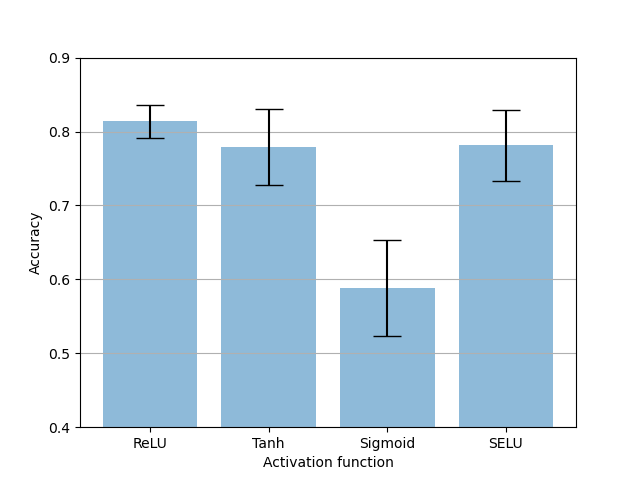
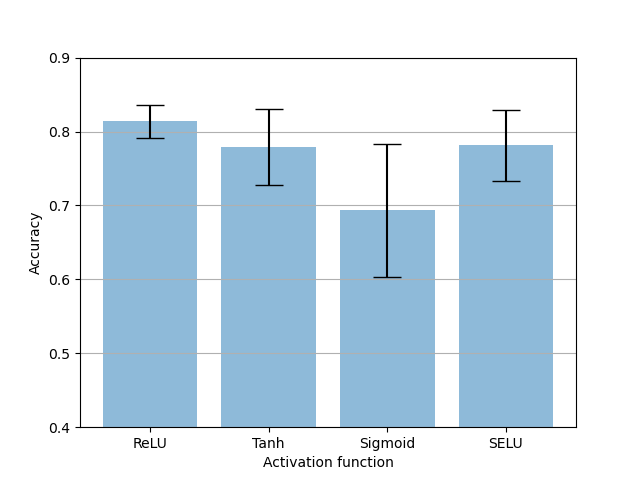
modification

Changed region(s): [[0.5312, 0.4375, 0.6875, 0.625], [0.5938, 0.6875, 0.625, 0.7188], [0.5938, 0.2812, 0.625, 0.3125]]

diff --git a/project2/plot.py b/project2/plot.py
@@ -1,12 +1,49 @@
 import matplotlib.pyplot as plt
 import numpy as np
+import json
 
-losses = [0.2523237198591232, 0.2517003074288368, 0.25118258148431777, 0.25075354278087614, 0.25038427114486694, 0.25005258470773695, 0.2497444838285446, 0.24945162385702133, 0.24916651099920273, 0.24888347685337067, 0.24859793186187745, 0.2483057975769043, 0.24801134467124938, 0.24771273136138916, 0.2473994627594948, 0.24706522822380067, 0.24670525938272475, 0.24631590843200685, 0.24589510411024093, 0.2454386368393898, 0.24493677765130997, 0.24438005834817886, 0.24374423623085023, 0.24305064380168914, 0.2422913581132889, 0.2414514809846878, 0.24051590859889985, 0.23947113305330275, 0.2383066773414612, 0.23701805919408797, 0.23558934777975082, 0.2340041145682335, 0.23226663172245027, 0.2303305447101593, 0.22815399765968322, 0.22574519664049147, 0.22310350090265274, 0.22020205706357956, 0.21701882928609847, 0.21352009773254393, 0.20969559252262115, 0.2055331289768219, 0.2010292187333107, 0.19617253839969634, 0.19094836860895156, 0.1853657752275467, 0.17942852079868316, 0.1731581673026085, 0.16654035151004792, 0.15956300795078276, 0.15232792347669602, 0.14502171128988267, 0.1376812383532524, 0.1304257556796074, 0.12327003106474876, 0.11636588796973228, 0.1097885474562645, 0.10357549265027047, 0.09781694263219834, 0.09249856695532799, 0.08762018382549286, 0.08316690996289253, 0.07910251840949059, 0.07539054527878761, 0.07197819836437702, 0.06886245496571064, 0.06600296832621097, 0.06337681487202644, 0.0609555259346962, 0.05872438549995422, 0.05665809251368046, 0.054729167744517325, 0.05294664725661278, 0.051289217174053194, 0.04973609410226345, 0.04828712828457356, 0.04691844098269939, 0.045628726668655875, 0.044421376287937166, 0.04327977001667023, 0.04220593087375164, 0.041189190745353696, 0.04021612610667944, 0.0392931018024683, 0.038418622501194474, 0.03759128954261541, 0.036803100258111954, 0.03605416491627693, 0.035346824675798416, 0.03467855416238308, 0.03404069673269987, 0.03342877011746168, 0.032844404131174086, 0.03228354640305042, 0.03173722494393587, 0.031216256506741046, 0.030719197168946267, 0.030241300724446772, 0.029781049489974974, 0.02933681197464466, 0.028903652727603913, 0.02849057875573635, 0.028088616393506526, 0.027704174630343914, 0.02732930313795805, 0.026972937770187853, 0.02662593834102154, 0.02629157491028309, 0.025966300629079342, 0.025651188939809798, 0.025346267223358154, 0.025052679143846034, 0.02476581446826458, 0.024488723278045653, 0.024223675951361656, 0.023963521420955657, 0.023710177280008793, 0.02346072606742382, 0.023223983682692052, 0.022987362183630466, 0.022758893482387067, 0.022539497725665568, 0.022324448078870775, 0.022110930643975735, 0.021902330033481122, 0.021705098263919354, 0.021512517146766184, 0.021314323879778385, 0.021135186962783336, 0.020948319882154464, 0.020765090361237526, 0.020602346397936344, 0.020426092203706503, 0.02026843708008528, 0.02010564198717475, 0.019943901523947715, 0.0197932786308229, 0.01963937859982252, 0.019470903649926187, 0.01932412637397647, 0.019161897245794535, 0.01900309110060334, 0.018855096958577632, 0.01867885123938322, 0.01853378685191274, 0.018377616815268994, 0.0182380267418921, 0.018099304102361203, 0.017979433108121157, 0.017839175183326006, 0.017705457098782063, 0.017588976211845873, 0.017447738349437712, 0.017340320535004138, 0.017195995803922413, 0.01708794282749295, 0.016956584714353084, 0.016848198417574168, 0.016723482776433228, 0.01663188189268112, 0.016511094663292168, 0.016418674401938914, 0.01631816430017352, 0.01619440345093608, 0.016111246589571238, 0.016002167854458092, 0.015924592968076468, 0.015810184460133315, 0.015729514975100757, 0.01563500240445137, 0.015531424339860678, 0.015439240634441376, 0.015367539320141076, 0.01526688588783145, 0.015162256546318531, 0.01507759103551507, 0.014983076695352792, 0.0149002387188375, 0.014803795237094164, 0.014710770267993212, 0.014635505992919207, 0.014554362557828427, 0.014470400847494602, 0.014410228189080953, 0.014306673593819142, 0.014253222942352295, 0.01416061855852604, 0.01409954223781824, 0.014007225539535284, 0.013938909117132425, 0.013883293326944112, 0.013789619319140911, 0.01374368155375123, 0.013655339647084475, 0.013611929584294557, 0.01351715475320816, 0.013468402996659279, 0.013385935686528683, 0.013314571045339108, 0.013258102722465992, 0.01319171441718936, 0.01312234727665782, 0.01305356528609991, 0.013005103264003993, 0.012938249111175536, 0.012888702377676965, 0.012815328408032655, 0.01276193168014288, 0.012700425367802382, 0.01264042491093278, 0.012579691410064698, 0.012538057658821345, 0.012491594441235066, 0.012415399122983218, 0.01236793203279376, 0.012315483018755912, 0.012264091614633798, 0.012229764834046364, 0.012158837262541055, 0.01210794160142541, 0.012074075918644667, 0.012007994670420885, 0.011960338987410068, 0.011929056700319051, 0.011863786540925503, 0.011835301388055086, 0.011772971134632826, 0.011746740993112325, 0.011667820764705539, 0.011644803406670689, 0.01161251231096685, 0.011550209252163768, 0.011506054596975446, 0.01147006624378264, 0.011422514310106635, 0.011400517914444208, 0.0113482681568712, 0.011295712552964687, 0.011250418657436968, 0.011211464973166585, 0.011177603574469685, 0.011128375586122275, 0.011105434177443385, 0.011044263979420066, 0.011028369702398778, 0.010969143128022552, 0.010957247531041502, 0.010922903846949338, 0.010846324218437075, 0.010825402708724141, 0.01080307704396546, 0.010757818212732672, 0.01072137700393796, 0.010694034676998854, 0.010646324884146453, 0.010632945830002427, 0.01057509114034474, 0.01053584567271173, 0.010528986575081944, 0.010470412950962783, 0.010449509508907795, 0.010385214723646641, 0.01037206407636404, 0.01032905071042478, 0.01030229707248509, 0.010260078124701977, 0.010219900356605648, 0.010201155301183462, 0.010155962686985731, 0.010128199262544513, 0.01011271751485765, 0.010086720762774348, 0.010035134479403495, 0.010016276221722364, 0.009998975647613406, 0.009959906851872802, 0.009930290281772614, 0.009912664210423828, 0.009886372601613402, 0.00985129908658564, 0.009811546420678496, 0.009804441127926111, 0.009776767576113343, 0.009733427967876195, 0.009721515700221062, 0.009690685477107764, 0.009673585277050733, 0.009633622551336884, 0.009609245928004384, 0.009602697333320975, 0.009562672208994627, 0.009534188127145172, 0.009524079179391265, 0.009478679345920681, 0.009465592633932828, 0.009437321778386831, 0.009416210651397704, 0.009394718892872333, 0.009373227367177606, 0.009351080795750023]
 
-x = range(1, len(losses)+1)
-plt.plot(x, losses, label='ReLU')
+"""
+# plot the training loss curves
+with open('./loss_relu.json') as f:
+    loss_relu = json.load(f)
+with open('./loss_tanh.json') as f:
+    loss_tanh = json.load(f)
+with open('./loss_selu.json') as f:
+    loss_selu = json.load(f)
+
+with open('./loss_relu_wo_sig.json') as f:
+    loss_relu_wo_sig = json.load(f)
+with open('./loss_tanh_wo_sig.json') as f:
+    loss_tanh_wo_sig = json.load(f)
+with open('./loss_selu_wo_sig.json') as f:
+    loss_selu_wo_sig = json.load(f)
+
+x = range(1, len(loss_relu)+1)
+plt.plot(x, loss_relu, 'r-', label='ReLU+Sigmoid')
+plt.plot(x, loss_tanh, 'g-', label='Tanh+Sigmoid')
+plt.plot(x, loss_selu, 'b-', label='SELU+Sigmoid')
+
+plt.plot(x, loss_relu_wo_sig, 'r--', label='ReLU')
+plt.plot(x, loss_tanh_wo_sig, 'g--', label='Tanh')
+plt.plot(x, loss_selu_wo_sig, 'b--', label='SELU')
+
 plt.xlabel('epochs')
 plt.ylabel('Training Loss')
 plt.legend()
-#plt.savefig("resnet_loss.png")
+plt.savefig("loss_curves_compare.png")
+plt.show()
+"""
+
+# plot the accuracies
+x_labels = ['ReLU', 'Tanh', 'SELU']
+acc = [0.9864000082015991, 0.9736000061035156, 0.9754000008106232]
+std = [0.0048826206661912374, 0.006053099815481821, 0.011637871602138906]
+
+plt.bar(x_labels, acc, width=0.4, yerr=std, align='center', alpha=0.5, ecolor='black', capsize=4)
+
+plt.ylim(0.9, 1.0)
+plt.ylabel('Accuracy')
+plt.grid(axis='y')
+plt.savefig('./test_acc.png')
 plt.show()

diff --git a/project2/test_multi.py b/project2/test_multi.py
@@ -1,9 +1,9 @@
 import torch
 import math
-
-from model import MLP
-from optim import SGD
 from loss import MSELoss
+from optim import SGD
+from model import MLP
+import numpy as np
 
 
 def generate_disc_set(nb):
@@ -16,32 +16,27 @@ def generate_disc_set(nb):
 def train(model, train_input, train_target, batch_size, nb_epochs, lr):
     criterion = MSELoss()
     optimizer = SGD(model.parameters(), lr=lr)
-
-    losses = []
     for e in range(nb_epochs):
-        running_loss = 0.0
         for b in range(0, train_input.size(0), batch_size):
-            out = model(train_input[b:b+batch_size])
+            output = model(train_input[b:b+batch_size])
 
             target = train_target[b:b+batch_size].view(-1, 1).float()
-            loss = criterion(out, target)
-
+            loss = criterion(output, target)
+            
             optimizer.zero_grad()
             dldy = criterion.backward()
             model.backward(dldy)
             optimizer.step()
             
-            running_loss += loss.item()
-
-        epoch_loss = running_loss / (b / batch_size + 1)
-        losses.append(epoch_loss)
         if (e+1) % 10 == 0:
-            print("Epoch {}, loss: {} ".format(e, epoch_loss))
-    
+            print("Epoch {}, batch {}, loss: {} ".format(e, b/batch_size, loss.item()))
+
+
 def test(model, test_input, test_target, batch_size):
     nb_acc = 0
     
     for b in range(0, test_input.size(0), batch_size):
+    
         output = model(test_input[b:b+batch_size])
 
         output = output.view(-1)
@@ -51,6 +46,29 @@ def test(model, test_input, test_target, batch_size):
         nb_acc = nb_acc + (target==pred).sum()
     
     return nb_acc/test_input.size(0)
+
+
+def fit(train_input, train_target, test_input, test_target, batch_size, nb_epochs, lr):
+    rounds = 10
+    accs = []
+
+    for i in range(rounds):
+        model = MLP()
+        print("Evaluating for round {}".format(i))
+
+        # TODO Do not use this function, no data shuffle
+        p = torch.randperm(len(train_input))
+        train_input = train_input[p]
+        train_target = train_target[p]
+
+        train(model, train_input, train_target, batch_size, nb_epochs, lr)
+        acc = test(model, test_input, test_target, batch_size)
+        print("Round {} accuracy: {}".format(i, acc))
+        accs.append(acc.item())
+    
+    accs = np.array(accs)
+    print("Accuracy mean: {}, std: {}".format(accs.mean(), accs.std()))
+    
 
 
 def main():
@@ -63,14 +81,11 @@ def main():
     test_input.sub_(mean).div_(std)
 
     batch_size = 100
-    nb_epochs = 300
+    nb_epochs = 200
     lr = 0.1
-
-    model = MLP()
-
-    train(model, train_input, train_target, batch_size, nb_epochs, lr)
-    acc = test(model, test_input, test_target, batch_size)
-    print("Accuracy: ", acc)
+    
+    fit(train_input, train_target, test_input, test_target, \
+        batch_size, nb_epochs, lr)
 
 
 if __name__ == "__main__":

diff --git a/project1/plots.py b/project1/plots.py
@@ -4,8 +4,8 @@ import numpy as np
 """
 # plot for MLP activation function choices
 x_labels = ['ReLU', 'Tanh', 'Sigmoid', 'SELU']
-acc = [0.8069000244140625, 0.7776999473571777, 0.7570000290870667, 0.7620999217033386]
-std = [0.0071561806835234165, 0.03965700790286064, 0.0050771781243383884, 0.02994607202708721]
+acc = [0.8069000244140625, 0.7776999473571777, 0.7784000039100647, 0.7620999217033386]
+std = [0.0071561806835234165, 0.03965700790286064, 0.02044070139527321, 0.02994607202708721]
 
 plt.bar(x_labels, acc, yerr=std, align='center', alpha=0.5, ecolor='black', capsize=8)
 plt.ylim(0.6, 0.9)
@@ -19,8 +19,8 @@ plt.show()
 """
 # plot for ConvNet activation function choices
 x_labels = ['ReLU', 'Tanh', 'Sigmoid', 'SELU']
-acc = [0.8137999773025513, 0.7789000272750854, 0.5879999399185181, 0.7812999486923218]
-std = [0.02263626642525196, 0.05178041383624077, 0.06494782865047455, 0.048108793795108795]
+acc = [0.8137999773025513, 0.7789000272750854, 0.6934000849723816, 0.7812999486923218]
+std = [0.02263626642525196, 0.05178041383624077, 0.08957453817129135, 0.048108793795108795]
 
 plt.bar(x_labels, acc, yerr=std, align='center', alpha=0.5, ecolor='black', capsize=10)
 plt.ylim(0.4, 0.9)
@@ -83,7 +83,6 @@ plt.legend(['MLP', 'ConvNet'])
 plt.savefig('./project1/pics/weight_share_acc.png')
 plt.show()
 """
-
 
 # plot for auxiliary loss
 x_labels = [0.5000, 0.6000, 0.7000, 0.8000, 0.9000, 1.0000, 1.1000, 1.2000, 1.3000, 1.4000, 1.5000]

diff --git a/project2/model.py b/project2/model.py
@@ -9,26 +9,14 @@ class MLP(Module):
     def __init__(self):
         self.mlp = Sequential(
             Linear(2, 25),
-            ReLU(),
+            SELU(),
             Linear(25, 25),
-            ReLU(),
+            SELU(),
             Linear(25, 25),
-            ReLU(),
+            SELU(),
             Linear(25, 1),
-            #Sigmoid()
+            Sigmoid()
         )
-        
-        """
-        self.mlp = Sequential(
-            Linear(2, 25),
-            Tanh(),
-            Linear(25, 25),
-            Tanh(),
-            Linear(25, 25),
-            Tanh(),
-            Linear(25, 1)
-        )
-        """
 
     def forward(self, x):
         out = self.mlp(x)

diff --git a/project2/sequential.py b/project2/sequential.py
@@ -15,7 +15,6 @@ class Sequential(Module):
         return out
 
     def backward(self, prev_grad):
-        ##TODO: reverse the order for backprop
         for i in range(self.nb_layers ):
             layer = self.model[self.nb_layers-1-i]
             grad = layer.backward(prev_grad)

diff --git a/project1/test.py b/project1/test.py
@@ -126,6 +126,7 @@ def main():
     batch_size = 100
     nb_epochs = 30
     lr = 1e-3
+    #lr = 1e-2       # for sigmoid
 
     weight_share = True
     auxiliary = True

diff --git a/project1/rearrange.md b/project1/rearrange.md
@@ -85,7 +85,7 @@
 - Tanh:
     Accuracy mean: 0.7776999473571777, std: 0.03965700790286064
 - Sigmoid:
-    Accuracy mean: 0.7570000290870667, std: 0.0050771781243383884
+    Accuracy mean: 0.7784000039100647, std: 0.02044070139527321
 - SELU:
     Accuracy mean: 0.7620999217033386, std: 0.02994607202708721
 
@@ -133,7 +133,7 @@ Accuracy mean: 0.8843000531196594, std: 0.004473372828215361
 - Tanh:
     Accuracy mean: 0.7789000272750854, std: 0.05178041383624077
 - Sigmoid:
-    Accuracy mean: 0.5879999399185181, std: 0.06494782865047455
+    Accuracy mean: 0.6934000849723816, std: 0.08957453817129135
 - SELU:
     Accuracy mean: 0.7812999486923218, std: 0.048108793795108795
 
